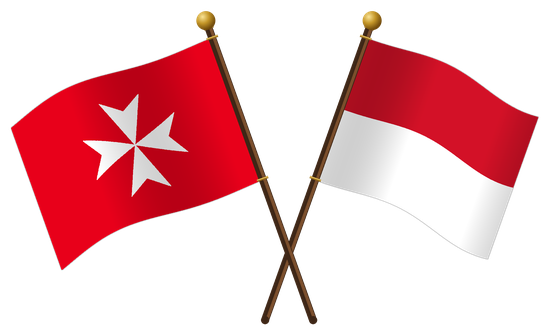
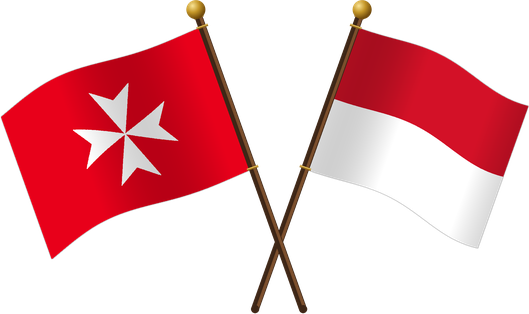
Tighter flags image and single-column signature layout
Flags sit beside the name with no empty space beneath; the same layout fits desktop and phones.

Claude-Session: https://claude.ai/code/session_01GXFhWxoqNBcLYkwwkRg5RC

diff --git a/signature.html b/signature.html
@@ -1,25 +1,33 @@
-<div data-spark-custom-html="true" id="sparkSig" style="max-width:560px;">
-<div style="font-size:0;line-height:0;">
-<!--[if mso]><table role="presentation" cellpadding="0" cellspacing="0" border="0"><tr><td width="142" valign="top"><![endif]-->
-<div style="display:inline-block;vertical-align:top;width:120px;margin:0 22px 16px 0;font-size:0;line-height:0;">
-<img src="https://raw.githubusercontent.com/bssdigitalmc/email-signature/main/img/crossed-flags.png" alt="Flags of the Sovereign Order of Malta and the Principality of Monaco" width="120" height="73" style="display:block;width:120px;max-width:120px;height:auto;border:0;outline:none;text-decoration:none;">
-</div>
-<!--[if mso]></td><td width="360" valign="top"><![endif]-->
-<div style="display:inline-block;vertical-align:top;width:100%;max-width:360px;box-sizing:border-box;border-left:1px solid #CC0000;padding:0 0 0 18px;font-size:12px;line-height:19px;text-align:left;">
+<div data-spark-custom-html="true" id="sparkSig" style="max-width:440px;">
+<table cellpadding="0" cellspacing="0" border="0" role="presentation" width="100%" style="border-collapse:collapse;max-width:440px;">
+<tr><td style="padding:0;">
+<table cellpadding="0" cellspacing="0" border="0" role="presentation" style="border-collapse:collapse;">
+<tr>
+<td width="96" style="width:96px;vertical-align:middle;padding:0 14px 0 0;font-size:0;line-height:0;"><img src="https://raw.githubusercontent.com/bssdigitalmc/email-signature/main/img/crossed-flags.png" alt="Flags of the Sovereign Order of Malta and the Principality of Monaco" width="96" height="57" style="display:block;width:96px;height:57px;border:0;outline:none;text-decoration:none;"></td>
+<td style="vertical-align:middle;">
 <div style="font-family:Georgia,'Times New Roman',Times,serif;font-size:17px;line-height:22px;color:#1a1a1a;">Ben Sylvester Strautmann</div>
 <div style="font-family:Georgia,'Times New Roman',Times,serif;font-size:13px;line-height:19px;font-style:italic;color:#5c5c5c;">Counsellor to the Ambassador</div>
-<div style="height:12px;line-height:12px;font-size:0;">&nbsp;</div>
-<div style="font-family:Arial,Helvetica,sans-serif;font-size:10px;line-height:15px;letter-spacing:1.5px;text-transform:uppercase;color:#1a1a1a;">Embassy of the <span style="white-space:nowrap;">Sovereign Order of Malta</span></div>
-<div style="font-family:Arial,Helvetica,sans-serif;font-size:10px;line-height:15px;letter-spacing:1.5px;text-transform:uppercase;color:#8a8a8a;">to the Principality of&nbsp;Monaco</div>
-<div style="height:10px;line-height:10px;font-size:0;">&nbsp;</div>
+</td>
+</tr>
+</table>
+</td></tr>
+<tr><td style="padding:12px 0 12px 0;font-size:0;line-height:0;">
+<table cellpadding="0" cellspacing="0" border="0" role="presentation" width="100%" style="border-collapse:collapse;"><tr>
+<td width="28" height="1" style="width:28px;height:1px;background:#CC0000;font-size:0;line-height:0;">&nbsp;</td>
+<td height="1" style="height:1px;background:#e3ded6;font-size:0;line-height:0;">&nbsp;</td>
+</tr></table>
+</td></tr>
+<tr><td style="padding:0;">
+<div style="font-family:Arial,Helvetica,sans-serif;font-size:10px;line-height:15px;letter-spacing:1.2px;text-transform:uppercase;color:#1a1a1a;">Embassy of the <span style="white-space:nowrap;">Sovereign Order of Malta</span></div>
+<div style="font-family:Arial,Helvetica,sans-serif;font-size:10px;line-height:15px;letter-spacing:1.2px;text-transform:uppercase;color:#8a8a8a;">to the Principality of&nbsp;Monaco</div>
+<div style="height:9px;line-height:9px;font-size:0;">&nbsp;</div>
 <div style="font-family:Georgia,'Times New Roman',Times,serif;font-size:12px;line-height:19px;color:#3a3a3a;">14 Quai Jean-Charles Rey<span style="color:#b0b0b0;"> &middot; </span><span style="white-space:nowrap;">98000 Monaco</span></div>
 <table cellpadding="0" cellspacing="0" border="0" role="presentation" style="border-collapse:collapse;">
-<tr><td width="18" style="width:18px;vertical-align:baseline;font-family:Arial,Helvetica,sans-serif;font-size:9px;line-height:19px;letter-spacing:1px;color:#CC0000;">T</td><td style="vertical-align:baseline;font-family:Georgia,'Times New Roman',Times,serif;font-size:12px;line-height:19px;color:#3a3a3a;"><a href="tel:+33640625952" style="color:#3a3a3a;text-decoration:none;">+33&nbsp;6&nbsp;40&nbsp;62&nbsp;59&nbsp;52</a></td></tr>
-<tr><td width="18" style="width:18px;vertical-align:baseline;font-family:Arial,Helvetica,sans-serif;font-size:9px;line-height:19px;letter-spacing:1px;color:#CC0000;">E</td><td style="vertical-align:baseline;font-family:Georgia,'Times New Roman',Times,serif;font-size:12px;line-height:19px;color:#3a3a3a;"><a href="mailto:b.strautmann@orderofmalta.int" style="color:#3a3a3a;text-decoration:none;">b.strautmann@orderofmalta.int</a></td></tr>
-<tr><td width="18" style="width:18px;vertical-align:baseline;font-family:Arial,Helvetica,sans-serif;font-size:9px;line-height:19px;letter-spacing:1px;color:#CC0000;">W</td><td style="vertical-align:baseline;font-family:Georgia,'Times New Roman',Times,serif;font-size:12px;line-height:19px;color:#3a3a3a;"><a href="https://monacoembassy.orderofmalta.int" style="color:#3a3a3a;text-decoration:none;">monacoembassy.orderofmalta.int</a></td></tr>
+<tr><td width="16" style="width:16px;vertical-align:baseline;font-family:Arial,Helvetica,sans-serif;font-size:9px;line-height:19px;letter-spacing:1px;color:#CC0000;">T</td><td style="vertical-align:baseline;font-family:Georgia,'Times New Roman',Times,serif;font-size:12px;line-height:19px;color:#3a3a3a;"><a href="tel:+33640625952" style="color:#3a3a3a;text-decoration:none;">+33&nbsp;6&nbsp;40&nbsp;62&nbsp;59&nbsp;52</a></td></tr>
+<tr><td width="16" style="width:16px;vertical-align:baseline;font-family:Arial,Helvetica,sans-serif;font-size:9px;line-height:19px;letter-spacing:1px;color:#CC0000;">E</td><td style="vertical-align:baseline;font-family:Georgia,'Times New Roman',Times,serif;font-size:12px;line-height:19px;color:#3a3a3a;"><a href="mailto:b.strautmann@orderofmalta.int" style="color:#3a3a3a;text-decoration:none;">b.strautmann@orderofmalta.int</a></td></tr>
+<tr><td width="16" style="width:16px;vertical-align:baseline;font-family:Arial,Helvetica,sans-serif;font-size:9px;line-height:19px;letter-spacing:1px;color:#CC0000;">W</td><td style="vertical-align:baseline;font-family:Georgia,'Times New Roman',Times,serif;font-size:12px;line-height:19px;color:#3a3a3a;"><a href="https://monacoembassy.orderofmalta.int" style="color:#3a3a3a;text-decoration:none;">monacoembassy.orderofmalta.int</a></td></tr>
 </table>
-</div>
-<!--[if mso]></td></tr></table><![endif]-->
-</div>
-<div style="max-width:500px;padding:16px 0 0 0;font-family:Arial,Helvetica,sans-serif;font-size:9px;line-height:14px;color:#a3a3a3;">This message and any attachments are confidential and intended solely for the addressee. If you have received it in error, please notify the sender and delete it. Any unauthorised use, disclosure or copying is prohibited.</div>
+</td></tr>
+<tr><td style="padding:14px 0 0 0;font-family:Arial,Helvetica,sans-serif;font-size:9px;line-height:14px;color:#a3a3a3;">This message and any attachments are confidential and intended solely for the addressee. If you have received it in error, please notify the sender and delete it. Any unauthorised use, disclosure or copying is prohibited.</td></tr>
+</table>
 </div>

diff --git a/README.md b/README.md
@@ -2,8 +2,8 @@
 
 Public image assets for the email signature of Ben Sylvester Strautmann, Counsellor to the Ambassador, Embassy of the Sovereign Order of Malta to the Principality of Monaco.
 
-- `img/crossed-flags.png` (360×220): crossed flags of the Sovereign Order of Malta and the Principality of Monaco, shown at 120×73 in the signature.
-- `img/crossed-flags-large.png` (549×335): larger version of the same image.
+- `img/crossed-flags.png` (288×171): crossed flags of the Sovereign Order of Malta and the Principality of Monaco, shown at 96×57 in the signature.
+- `img/crossed-flags-large.png` (529×314): larger version of the same image.
 - `signature.html`: signature HTML for Spark (Settings → Signatures → HTML).
 
 Keep this repository public and the file paths unchanged: sent emails load the image from these addresses.
